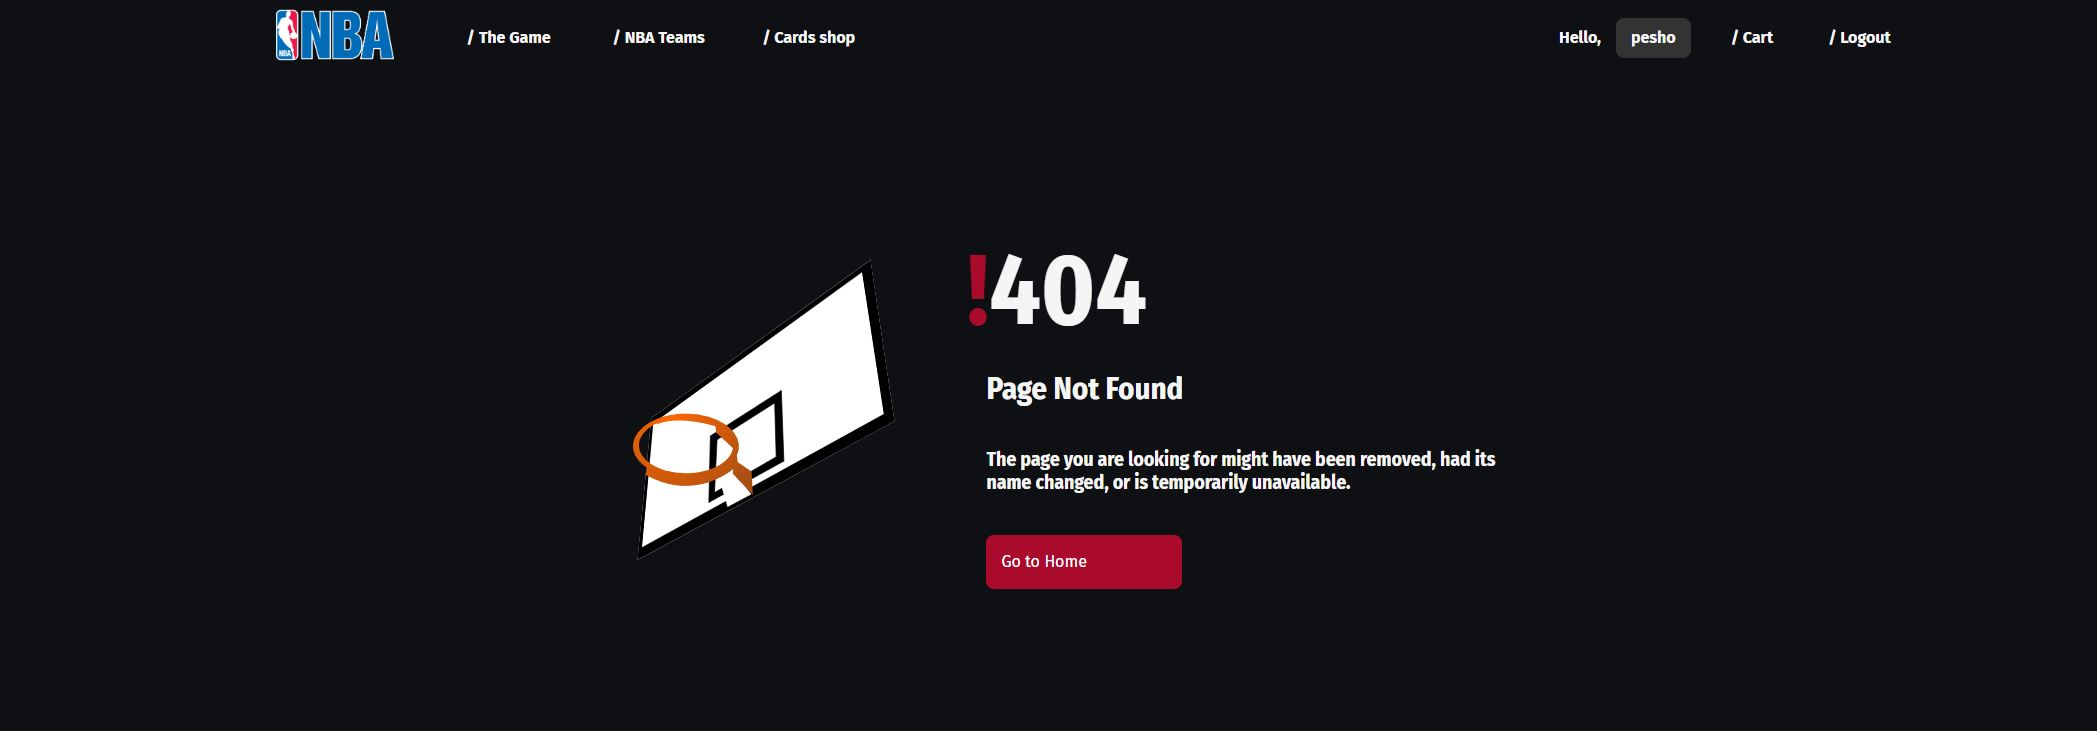
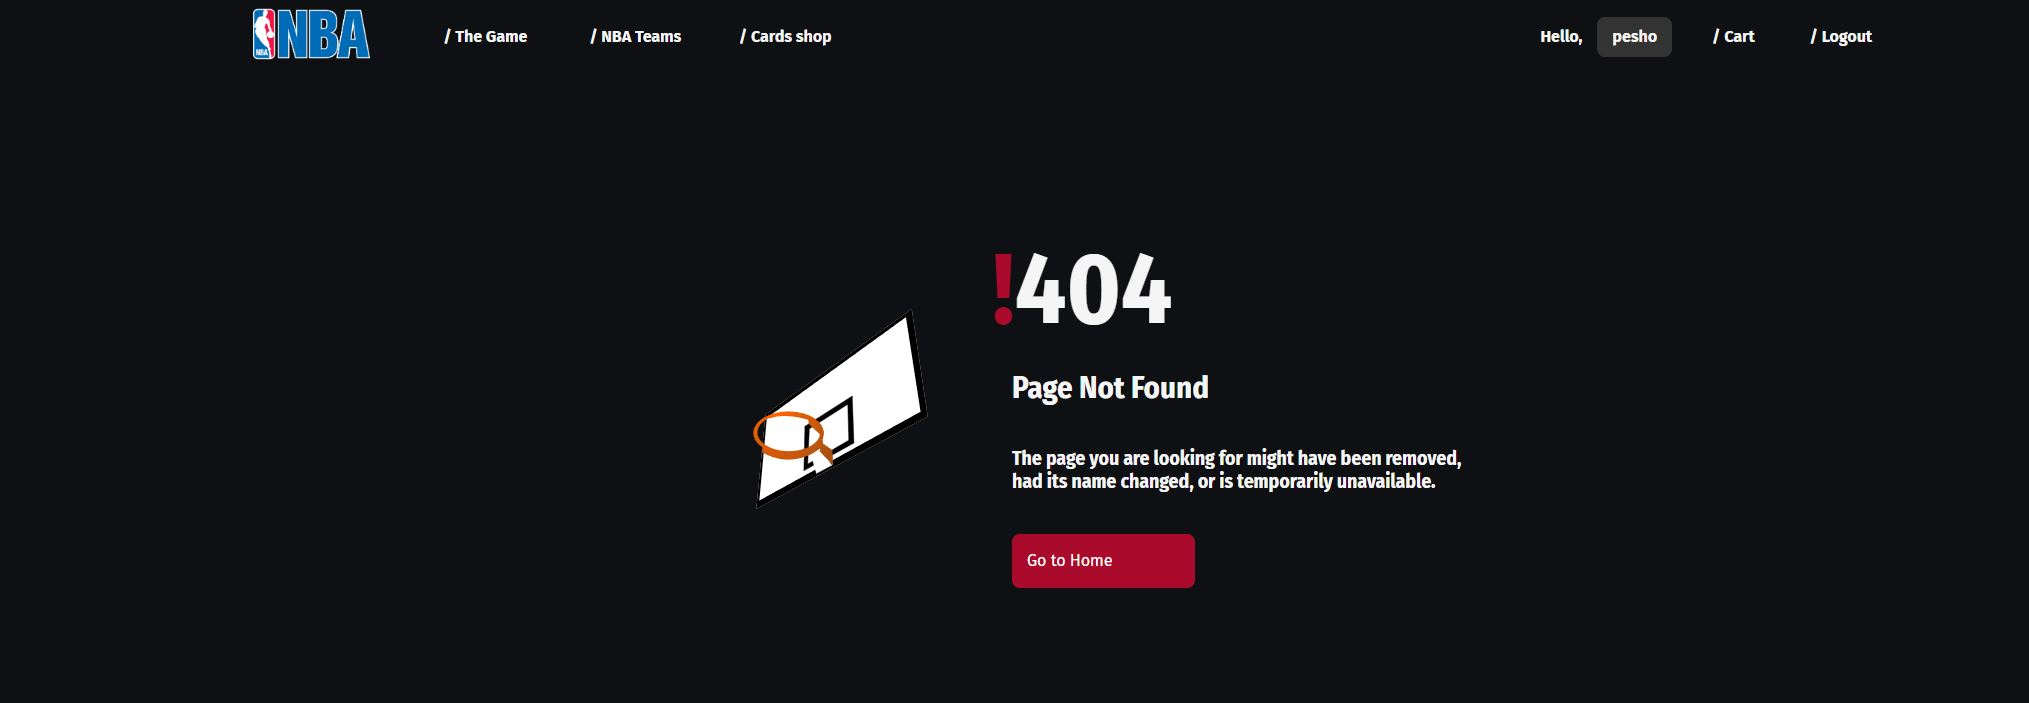
Update 404 (#33)

diff --git a/public/assets/css/modules/NotFound404.module.css b/public/assets/css/modules/NotFound404.module.css
@@ -6,6 +6,7 @@
   align-items: center;
   padding: 150px;
   color: whitesmoke;
+  padding-left: 300px;
 }
 .container .not-found {
   display: flex;
@@ -27,7 +28,7 @@
   font-size: 16px;
   margin-top: 20px;
   margin-left: 20px;
-  width: 40%;
+  width: 30%;
 }
 .container .not-found .error {
   display: flex;
@@ -44,4 +45,4 @@
 }
 .container .not-found h4 {
   padding: 20px;
-} /*# sourceMappingURL=NotFound404.module.css.map */
+}/*# sourceMappingURL=NotFound404.module.css.map */

diff --git a/src/components/404/404.jsx b/src/components/404/404.jsx
@@ -5,7 +5,7 @@ export default function NotFound() {
     return (
         <>
             <div className={styles.container}>
-                <img src={rim} alt="Rim" width={300} height={300} />
+                <img src={rim} alt="Rim" width={200} height={200} />
                 <div className={styles.notFound}>
                     <h1 className={styles.error}>
                         !<h1 className={styles.errorNumber}>404</h1>

diff --git a/public/assets/scss/_404.scss b/public/assets/scss/_404.scss
@@ -6,7 +6,8 @@
   align-items: center;
   padding: 150px;
   color: whitesmoke;
-
+  padding-left: 300px;
+  
   .not-found {
     * {
       padding: 0;
@@ -28,7 +29,7 @@
       font-size: 16px;
       margin-top: 20px;
       margin-left: 20px;
-      width: 40%;
+      width: 30%;
     }
 
     .error {
